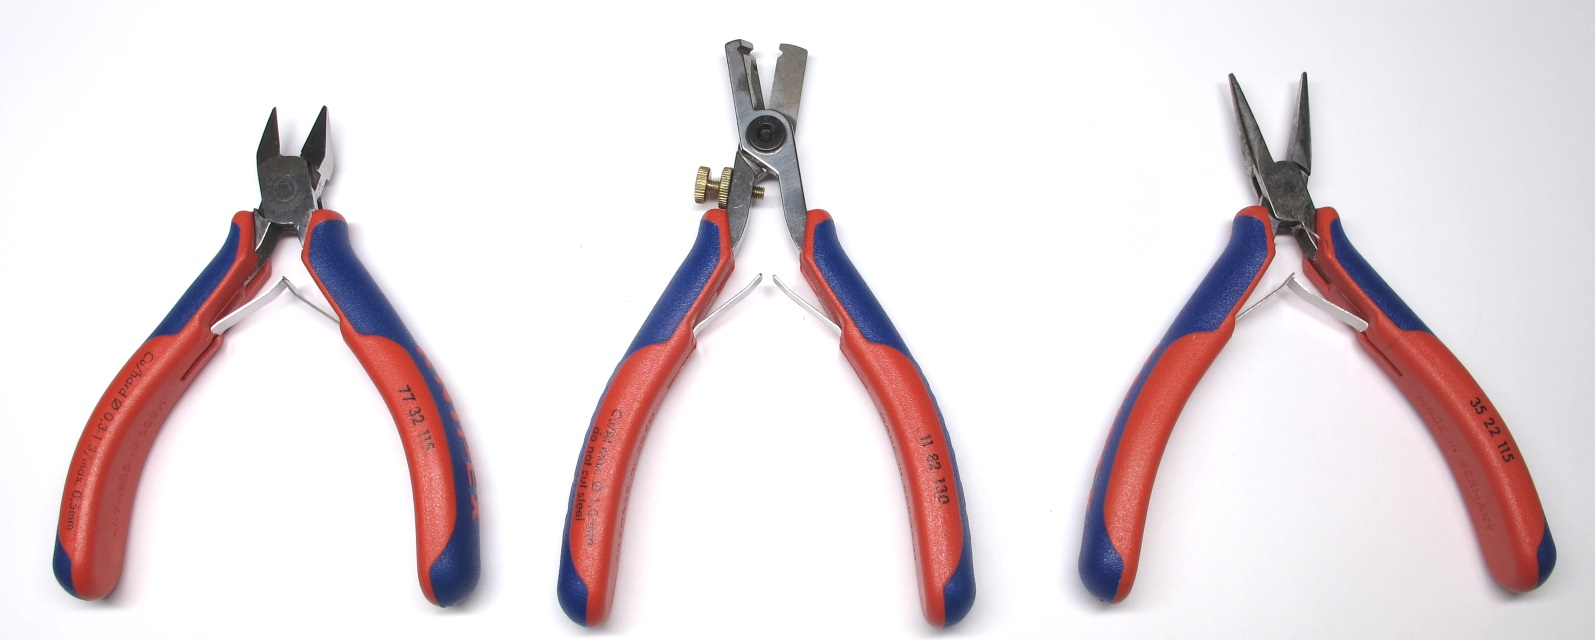
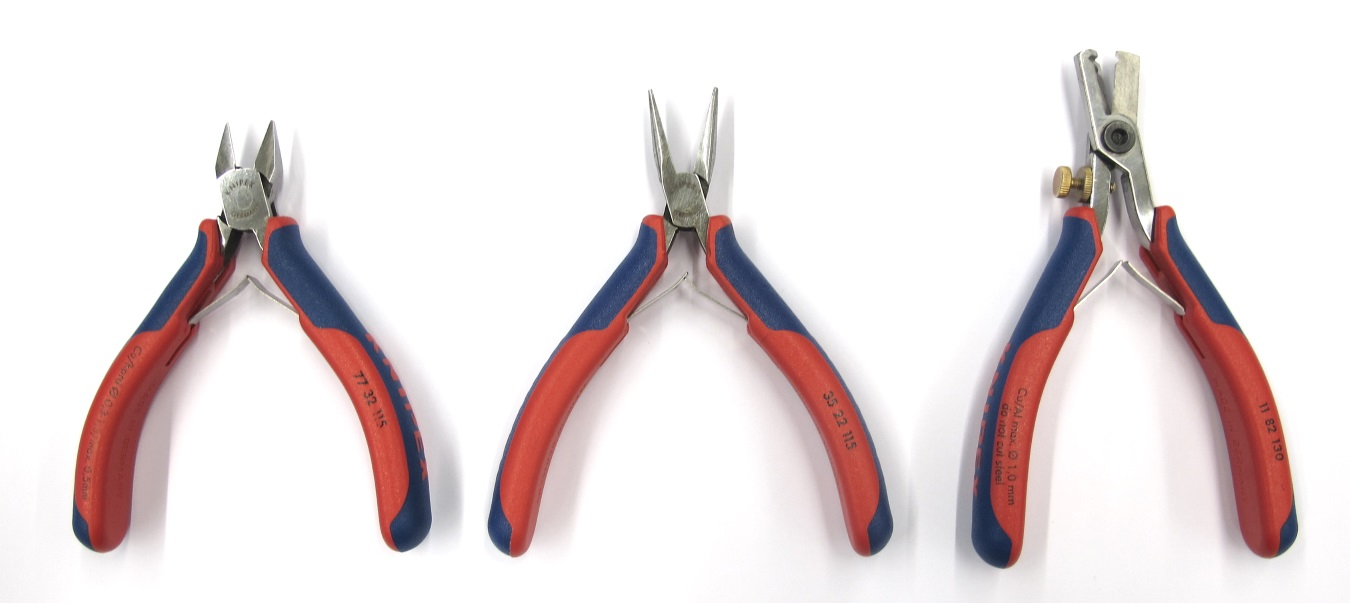
Updating documentation

diff --git a/electronics/details/details_components.md b/electronics/details/details_components.md
@@ -254,7 +254,6 @@
 |---|---|---|---|
 |9 pin D-Sub Connector||RS 765-9555||
 
-# Tools
 
 ## Heat Shrink Label Maker
 
@@ -268,20 +267,46 @@
 |Heat Shrink ø 12mm|black on white|RS 515-5565|DYMO #18055|
 |Heat Shrink ø 19mm|black on white|RS 515-6782|DYMO #18057|
 
----
+## Soldering Iron
+<img src="../images/soldering_iron_1.jpg" width="300"> <br>*Soldering iron with temperature control*
+
+|Description|Details|Ordering Information|Comments|
+|---|---|---|---|
+|Soldering Iron |Ersa i-CON| Conrad 2272879 <br>Farnell 1625358|Temperature Range: 150°C to 450°C|
+
 ## Heat Gun
 <img src="../images/heat_gun_1.jpg" width="300"> <br>*Heat Gun*<br>
 
 |Description|Details|Ordering Information|Comments|
 |---|---|---|---|
-|Steinel Heat Gun||Steinel #3479|Temperature not adjustable.|
+|Steinel Heat Gun|Steinel HL Stick| Conrad 818872<br>Farnell 2138307|Temperature not adjustable.|
 
----
-<img src="../images/pliers_1.jpg" width="300"> <br>*Pliers*
+## Multimeter
 
-<img src="../images/soldering_iron_1.jpg" width="300"> <br>*Soldering iron with temperature control*
+<img src="../images/multimeter.jpg" width="300"> <br>*Multimeter - Fluke 175*
 
----
+|Description|Details|Ordering Information|Comments|
+|---|---|---|---|
+|Multimeter|Fluke 175|RS 394-4470<br>Farnell 3558678||
+
+## Test Probes
+
+<img src="../images/test_probes.jpg" width="300"> <br>*Miniature Test Probes*<br>
+
+|Description|Details|Ordering Information|Comments|
+|---|---|---|---|
+|Miniature Test Probes|Hirschmann 	932959001|RS 775-681<br>Farnell 1011414||
+
+## Pliers
+<img src="../images/pliers_1.jpg" width="350"> <br>*Wire cutter, pliers and wire stripper*
+
+|Description|Details|Ordering Information|Comments|
+|---|---|---|---|
+|Wire Cutter|Knipex 7732115|Hahn+Kolb 53106040<br>Farnell 3330436||
+|Pliers|Knipex 3522115|Hahn+Kolb 53104020<br>Farnell 1715017||
+|Wire Stripper|Knipex 1182130|Hahn+Kolb 53110015<br>Farnell 1779811||
+
+## Third Hand
 <img src="../images/third_hand_1.jpg" width="300"> <br>*Third hand*<br>
 
 |Description|Details|Ordering Information|Comments|
